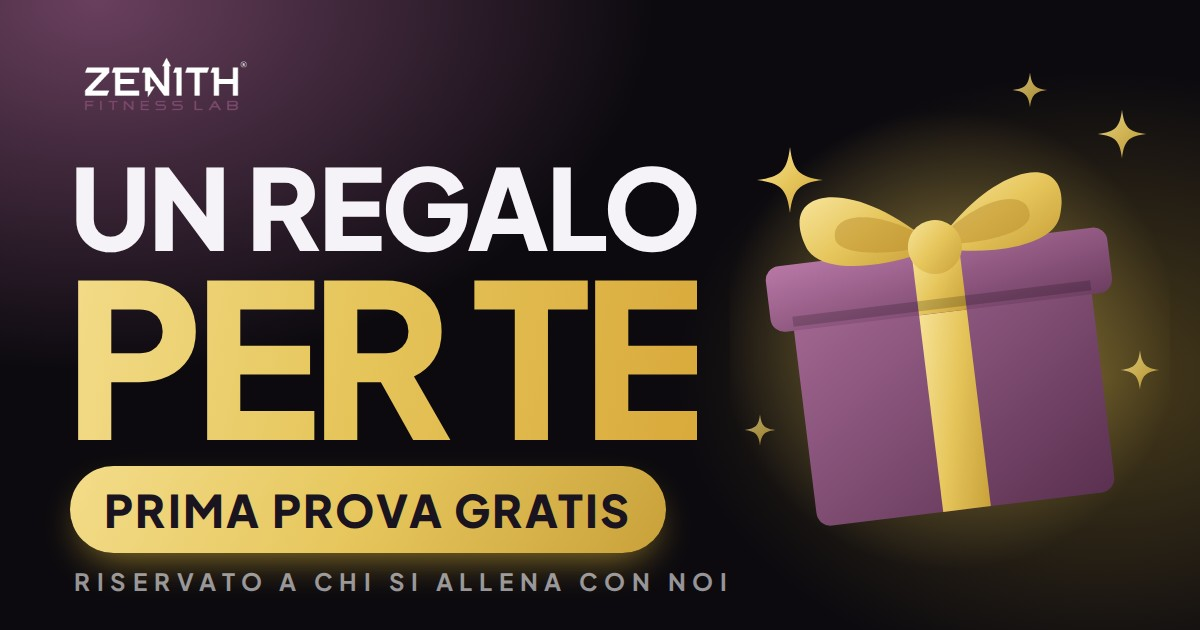
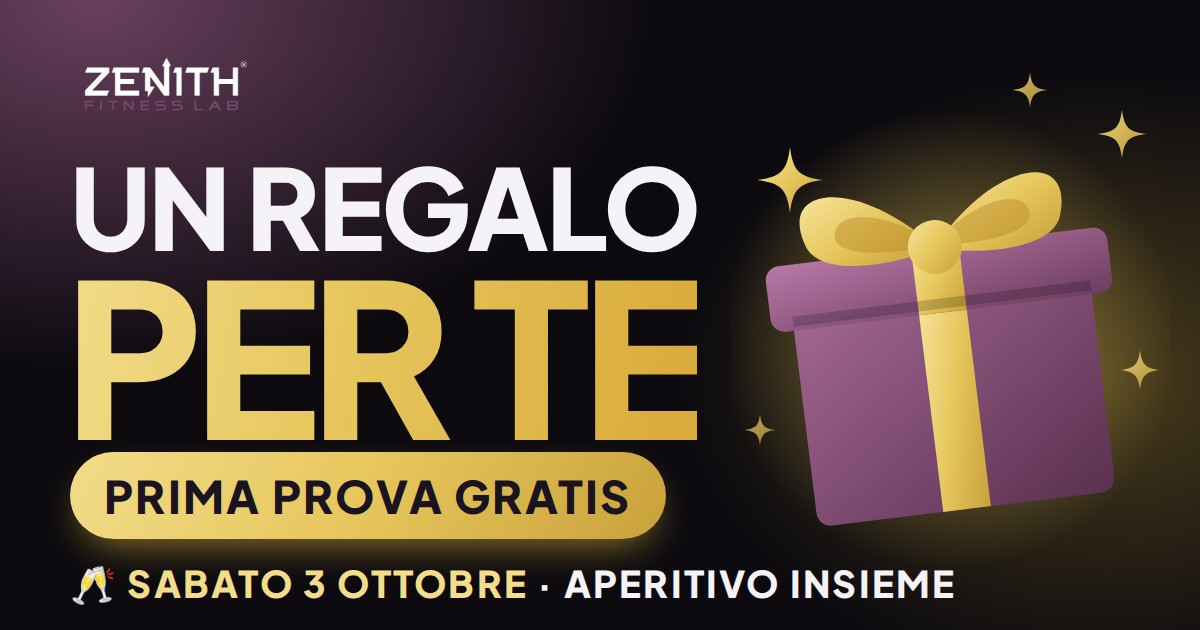
Sabato 3 in evidenza: aperitivo insieme, nell'immagine, nella scheda del link e nella pagina
Il riquadro sulla pagina sparisce da solo dopo la presentazione (sabato 3, ore 12).

Claude-Session: https://claude.ai/code/session_01MZRCdVi6adMs4Bac4AWRp5

Changed region(s): [[0.0617, 0.6937, 0.8017, 0.9651]]

diff --git a/app/prova/index.html b/app/prova/index.html
@@ -11,7 +11,7 @@
 <meta property="og:type" content="website">
 <meta property="og:site_name" content="Zenith Fitness Lab">
 <meta property="og:title" content="Un regalo per te 🎁 La prima prova è gratis">
-<meta property="og:description" content="Solo dal 5 al 10 ottobre, riservata a chi si allena con noi. I posti non bastano per tutti.">
+<meta property="og:description" content="Sabato 3, ore 8–12: aperitivo insieme. Prima prova gratis dal 5 al 10 ottobre.">
 <meta property="og:url" content="https://therightclickbooks-source.github.io/capsula/app/prova/">
 <meta property="og:image" content="https://therightclickbooks-source.github.io/capsula/app/prova/regalo.jpg">
 <meta property="og:image:type" content="image/jpeg">
@@ -106,6 +106,8 @@ input.tel:focus{border-color:var(--oro)}
 .ora.preso{cursor:default; color:rgba(255,255,255,.25); background:transparent; border-style:dashed; border-color:rgba(255,255,255,.1); text-decoration:line-through}
 .ora.mio{border-color:var(--oro); color:var(--oro); background:rgba(230,198,92,.12); cursor:default}
 .ora.mio::after{content:"IL TUO"; display:block; font-size:9.5px; letter-spacing:.16em; margin-top:1px}
+.evento{margin-top:14px; padding:12px 14px; border-radius:14px; background:rgba(230,198,92,.1); border:1.5px solid rgba(230,198,92,.45); display:flex; flex-direction:column; gap:2px; font-size:14.5px; line-height:1.4; color:var(--muted)}
+.evento b{color:var(--oro); font-size:16.5px}
 .cambio{display:none; margin-top:14px; padding:12px 14px; border-radius:14px; background:rgba(230,198,92,.09); border:1.5px solid rgba(230,198,92,.4); font-size:14.5px; line-height:1.45; color:var(--muted)}
 .cambio b{color:var(--oro)}
 .cambio .tieni{display:block; margin-top:8px; background:none; border:none; padding:0; font:inherit; font-size:14px; font-weight:700; color:var(--oro); text-decoration:underline; cursor:pointer}
@@ -155,6 +157,7 @@ input.tel:focus{border-color:var(--oro)}
       <span class="tag">🔒 ACCESSO RISERVATO</span>
       <h1 id="titolo">La novità del nostro centro: <em>provala per primo.</em></h1>
       <p class="lead" id="lead">La prima prova è un nostro regalo, gratuita solo dal 5 al 10 ottobre. Tocca il giorno, poi l'orario che preferisci: i posti non bastano per tutti.</p>
+      <div class="evento" id="evento"><b>🥂 Sabato 3, dalle 8 alle 12</b><span>Facciamo l'aperitivo insieme: vieni a scoprirla!</span></div>
     </div>
     <div class="cambio" id="cambio"></div>
     <div class="errore" id="errCal"></div>
@@ -233,6 +236,7 @@ const DEMO = !ENDPOINT || /[?&]demo=1/.test(location.search);
 let STATO = null, GIORNO = null, SCELTO = null, MODO = 'prenota';
 
 if(DEMO){ const d = document.createElement('div'); d.className = 'demo'; d.textContent = 'PROVA DIMOSTRATIVA'; document.body.appendChild(d); }
+if(Date.now() >= Date.parse('2026-10-03T12:00:00')) $('evento').style.display = 'none';   /* la presentazione e' finita */
 if(Date.now() >= Date.parse(SVELA))
   $('titolo').innerHTML = 'Zenith, la capsula per il recupero: <em>provala per primo.</em>';
 
